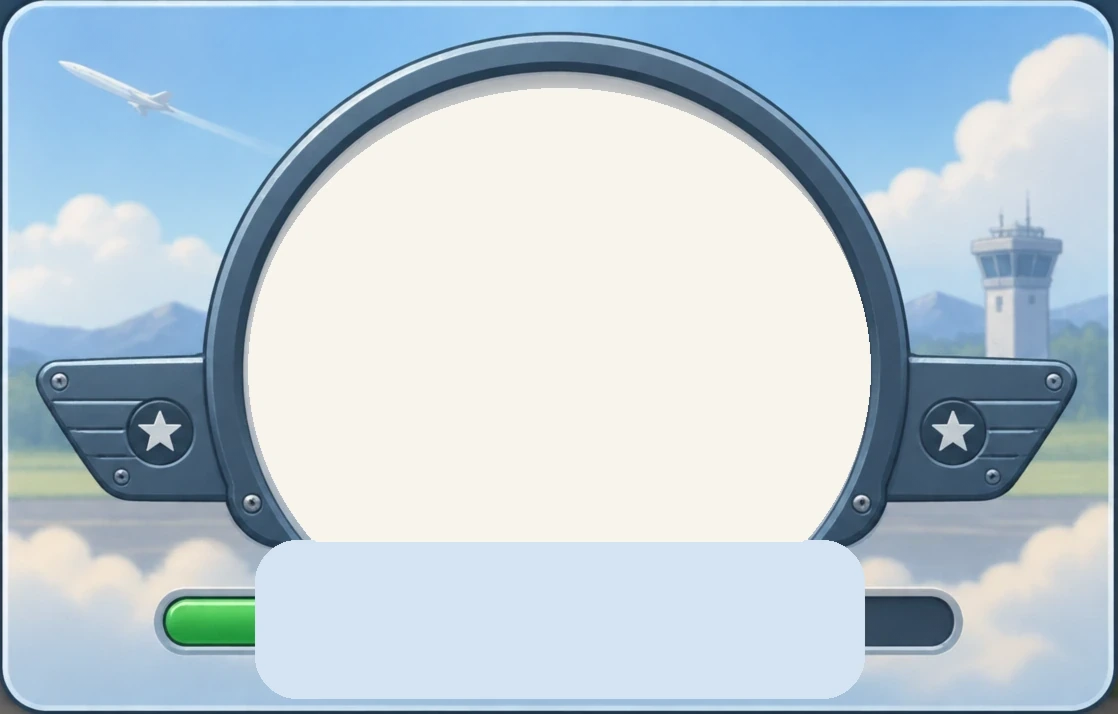
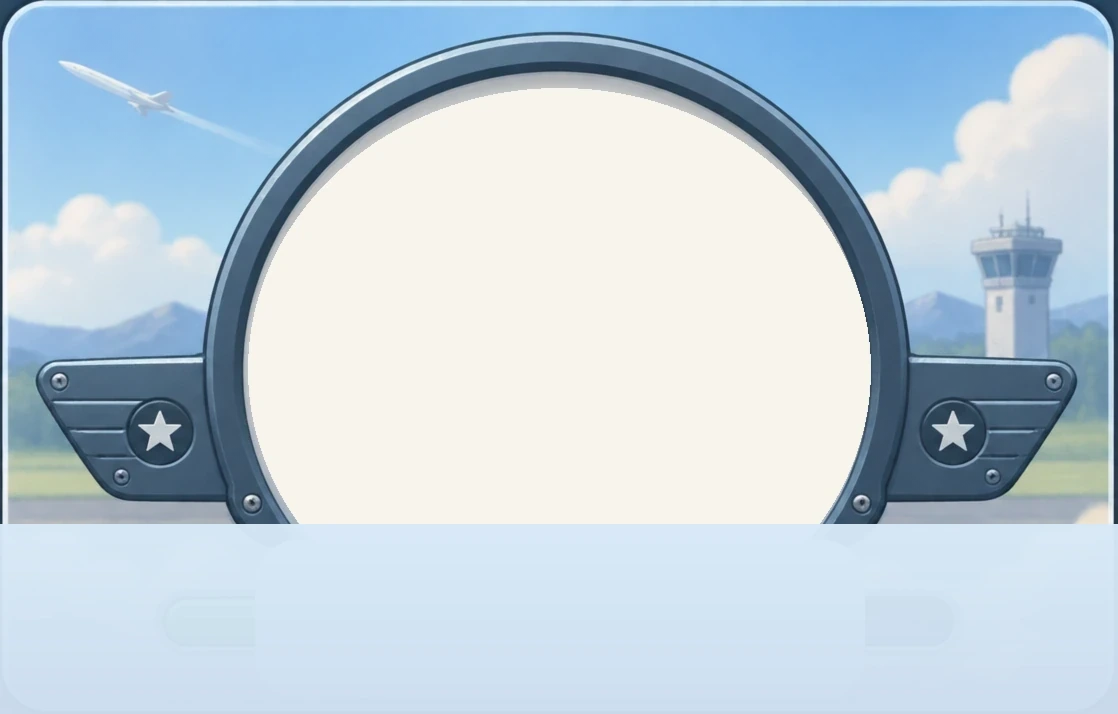
gjgj

Changed region(s): [[0.0, 0.7087, 1.0, 1.0]]

diff --git a/lentokone/index.html b/lentokone/index.html
@@ -258,8 +258,9 @@ button{font:inherit}
   font-weight:950;
   font-size:clamp(15px,2.8vw,18px);
 }
-#calOverlay{display:none;z-index:51;background:rgba(20,54,78,.54);backdrop-filter:blur(5px)}
-#calOverlay.show{display:flex}
+#calOverlay{display:flex;z-index:51;background:rgba(20,54,78,.54);backdrop-filter:blur(5px);opacity:0;visibility:hidden;pointer-events:none;transition:opacity .32s ease, visibility 0s linear .32s}
+#calOverlay.show{opacity:1;visibility:visible;pointer-events:auto;transition:opacity .18s ease}
+#calOverlay.fade-out{opacity:0;visibility:visible;pointer-events:none;transition:opacity .34s ease}
 .cal-panel{
   position:relative;
   width:min(760px,92vw,calc(88vh * 1.5658));
@@ -277,7 +278,7 @@ button{font:inherit}
 .cal-needle{stroke:#e84d2f;stroke-width:15;stroke-linecap:round;filter:drop-shadow(0 2px 2px rgba(54,24,16,.35))}
 .cal-needle-tip{fill:#e84d2f}
 .cal-hub{fill:#24313d;stroke:#0e1820;stroke-width:5}
-.cal-progress-track{fill:#243b4c;stroke:#a8bfd0;stroke-width:5}
+.cal-progress-track{fill:rgba(36,59,76,.24)}
 .cal-progress-fill{fill:url(#calProgressGradient)}
 @media(max-height:420px){.cal-panel{width:min(640px,92vw,calc(88vh * 1.5658))}}
 #rotateOverlay{display:none;z-index:80;background:#87cff8}
@@ -417,9 +418,8 @@ button{font:inherit}
         <rect x="428" y="423" width="262" height="82" rx="30" fill="#243b4c" stroke="#8ba5b7" stroke-width="5"/>
         <text id="calDbValue" class="cal-db" x="559" y="483" text-anchor="middle">– dB</text>
 
-        <rect class="cal-progress-track" x="352" y="590" width="414" height="54" rx="27"/>
-        <clipPath id="calProgressClip"><rect x="359" y="597" width="400" height="40" rx="20"/></clipPath>
-        <rect id="calProgressFill" class="cal-progress-fill" x="359" y="597" width="0" height="40" rx="20" clip-path="url(#calProgressClip)"/>
+        <rect class="cal-progress-track" x="352" y="612" width="414" height="18" rx="9"/>
+        <rect id="calProgressFill" class="cal-progress-fill" x="352" y="612" width="0" height="18" rx="9"/>
       </svg>
     </div>
   </div>
@@ -715,14 +715,16 @@ function updateCalibrationVisual(db,progress){
   const angle=-90+ratio*180;
   calNeedleGroup.setAttribute('transform',`rotate(${angle.toFixed(2)} 559 365)`);
   calDbValue.textContent=Number.isFinite(db)?`${Math.round(db)} dB`:'– dB';
-  calProgressFill.setAttribute('width',(400*clamp(progress,0,1)).toFixed(1));
+  calProgressFill.setAttribute('width',(414*clamp(progress,0,1)).toFixed(1));
 }
 async function calibrateMicrophoneNoiseFloor(){
+  const fadeOutMs=340;
   if(!analyser||!timeData)return false;
   if(timer){clearInterval(timer);timer=null}
   clearRecognition();
+  calOverlay.classList.remove('fade-out');
   calOverlay.classList.add('show');
-  updateCalibrationVisual(-80,0);
+  updateCalibrationVisual(-90,0);
 
   const totalMs=MIC_CAL_WARMUP_MS+MIC_CAL_MEASURE_MS;
   const overallStart=performance.now();
@@ -755,10 +757,12 @@ async function calibrateMicrophoneNoiseFloor(){
     dbThreshold=Math.max(-70,Math.min(-20,Math.round(noiseFloor+MIC_CAL_MARGIN_DB)));
   }
   dev.threshold.textContent=dbThreshold.toFixed(0)+' dB';
-  updateCalibrationVisual(samples.length?samples[Math.floor(samples.length/2)]:-80,1);
+  updateCalibrationVisual(samples.length?samples[Math.floor(samples.length/2)]:-90,1);
   await sleepMs(180);
   timer=setInterval(processFrame,FRAME_MS);
-  calOverlay.classList.remove('show');
+  calOverlay.classList.add('fade-out');
+  await sleepMs(fadeOutMs);
+  calOverlay.classList.remove('show','fade-out');
   return true;
 }
 async function startMic(){

diff --git a/lentokone/sw.js b/lentokone/sw.js
@@ -1,4 +1,4 @@
-const CACHE_NAME = 'lentokone-pwa-base-1.8-calibration-gauge-90-30-clean';
+const CACHE_NAME = 'lentokone-pwa-base-1.10-calibration-fadeout';
 const APP_SHELL = [
   './',
   './index.html',
